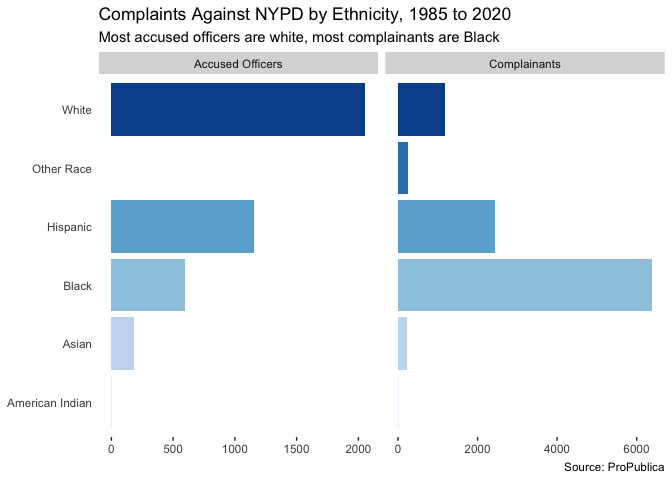
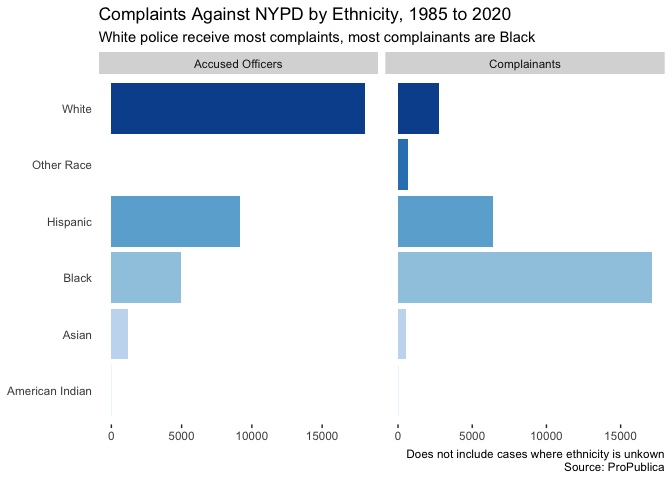
Added analysis based on officers' gender

diff --git a/NYPD.md b/NYPD.md
@@ -44,3 +44,30 @@ and the accused officer.
 A majority of officers who have substantiated complaints against them
 are white while, in cases where the ethnicity is known, a majority of
 complainants are Black.
+
+When we take a look at the ethnicity of the accused police officers,
+however, their ethnicity does not seem to make much of a difference.
+
+![](NYPD_files/figure-gfm/unnamed-chunk-3-1.png)<!-- -->
+
+Officers of every ethnicity receive disproportionate complaints from
+Black people. White officers have a greater overall number of
+complaints, regardless of complainant’s ethnicity. It’s not clear
+whether this number is disproportionate to the number of white police in
+New York, but the disproportionate number of white officers is itself a
+symptom of systemic racism within the NYPD.
+
+Similarly, officer’s gender does not seem to make a difference when it
+comes to racist policing.
+
+![](NYPD_files/figure-gfm/unnamed-chunk-4-1.png)<!-- -->
+
+The same pattern of complaints holds whether the officer in question is
+a man or a woman. Men receive many, many more complaints overall but
+whether this is out of proportion to their numbers on the force during
+this time period would require a different data set.
+
+The data recorded here are at best a limited and partial record of
+alleged police misconduct in New York City, but they seem to indicate
+systemically racist policing regardless of the race or gender of
+individual officers.
